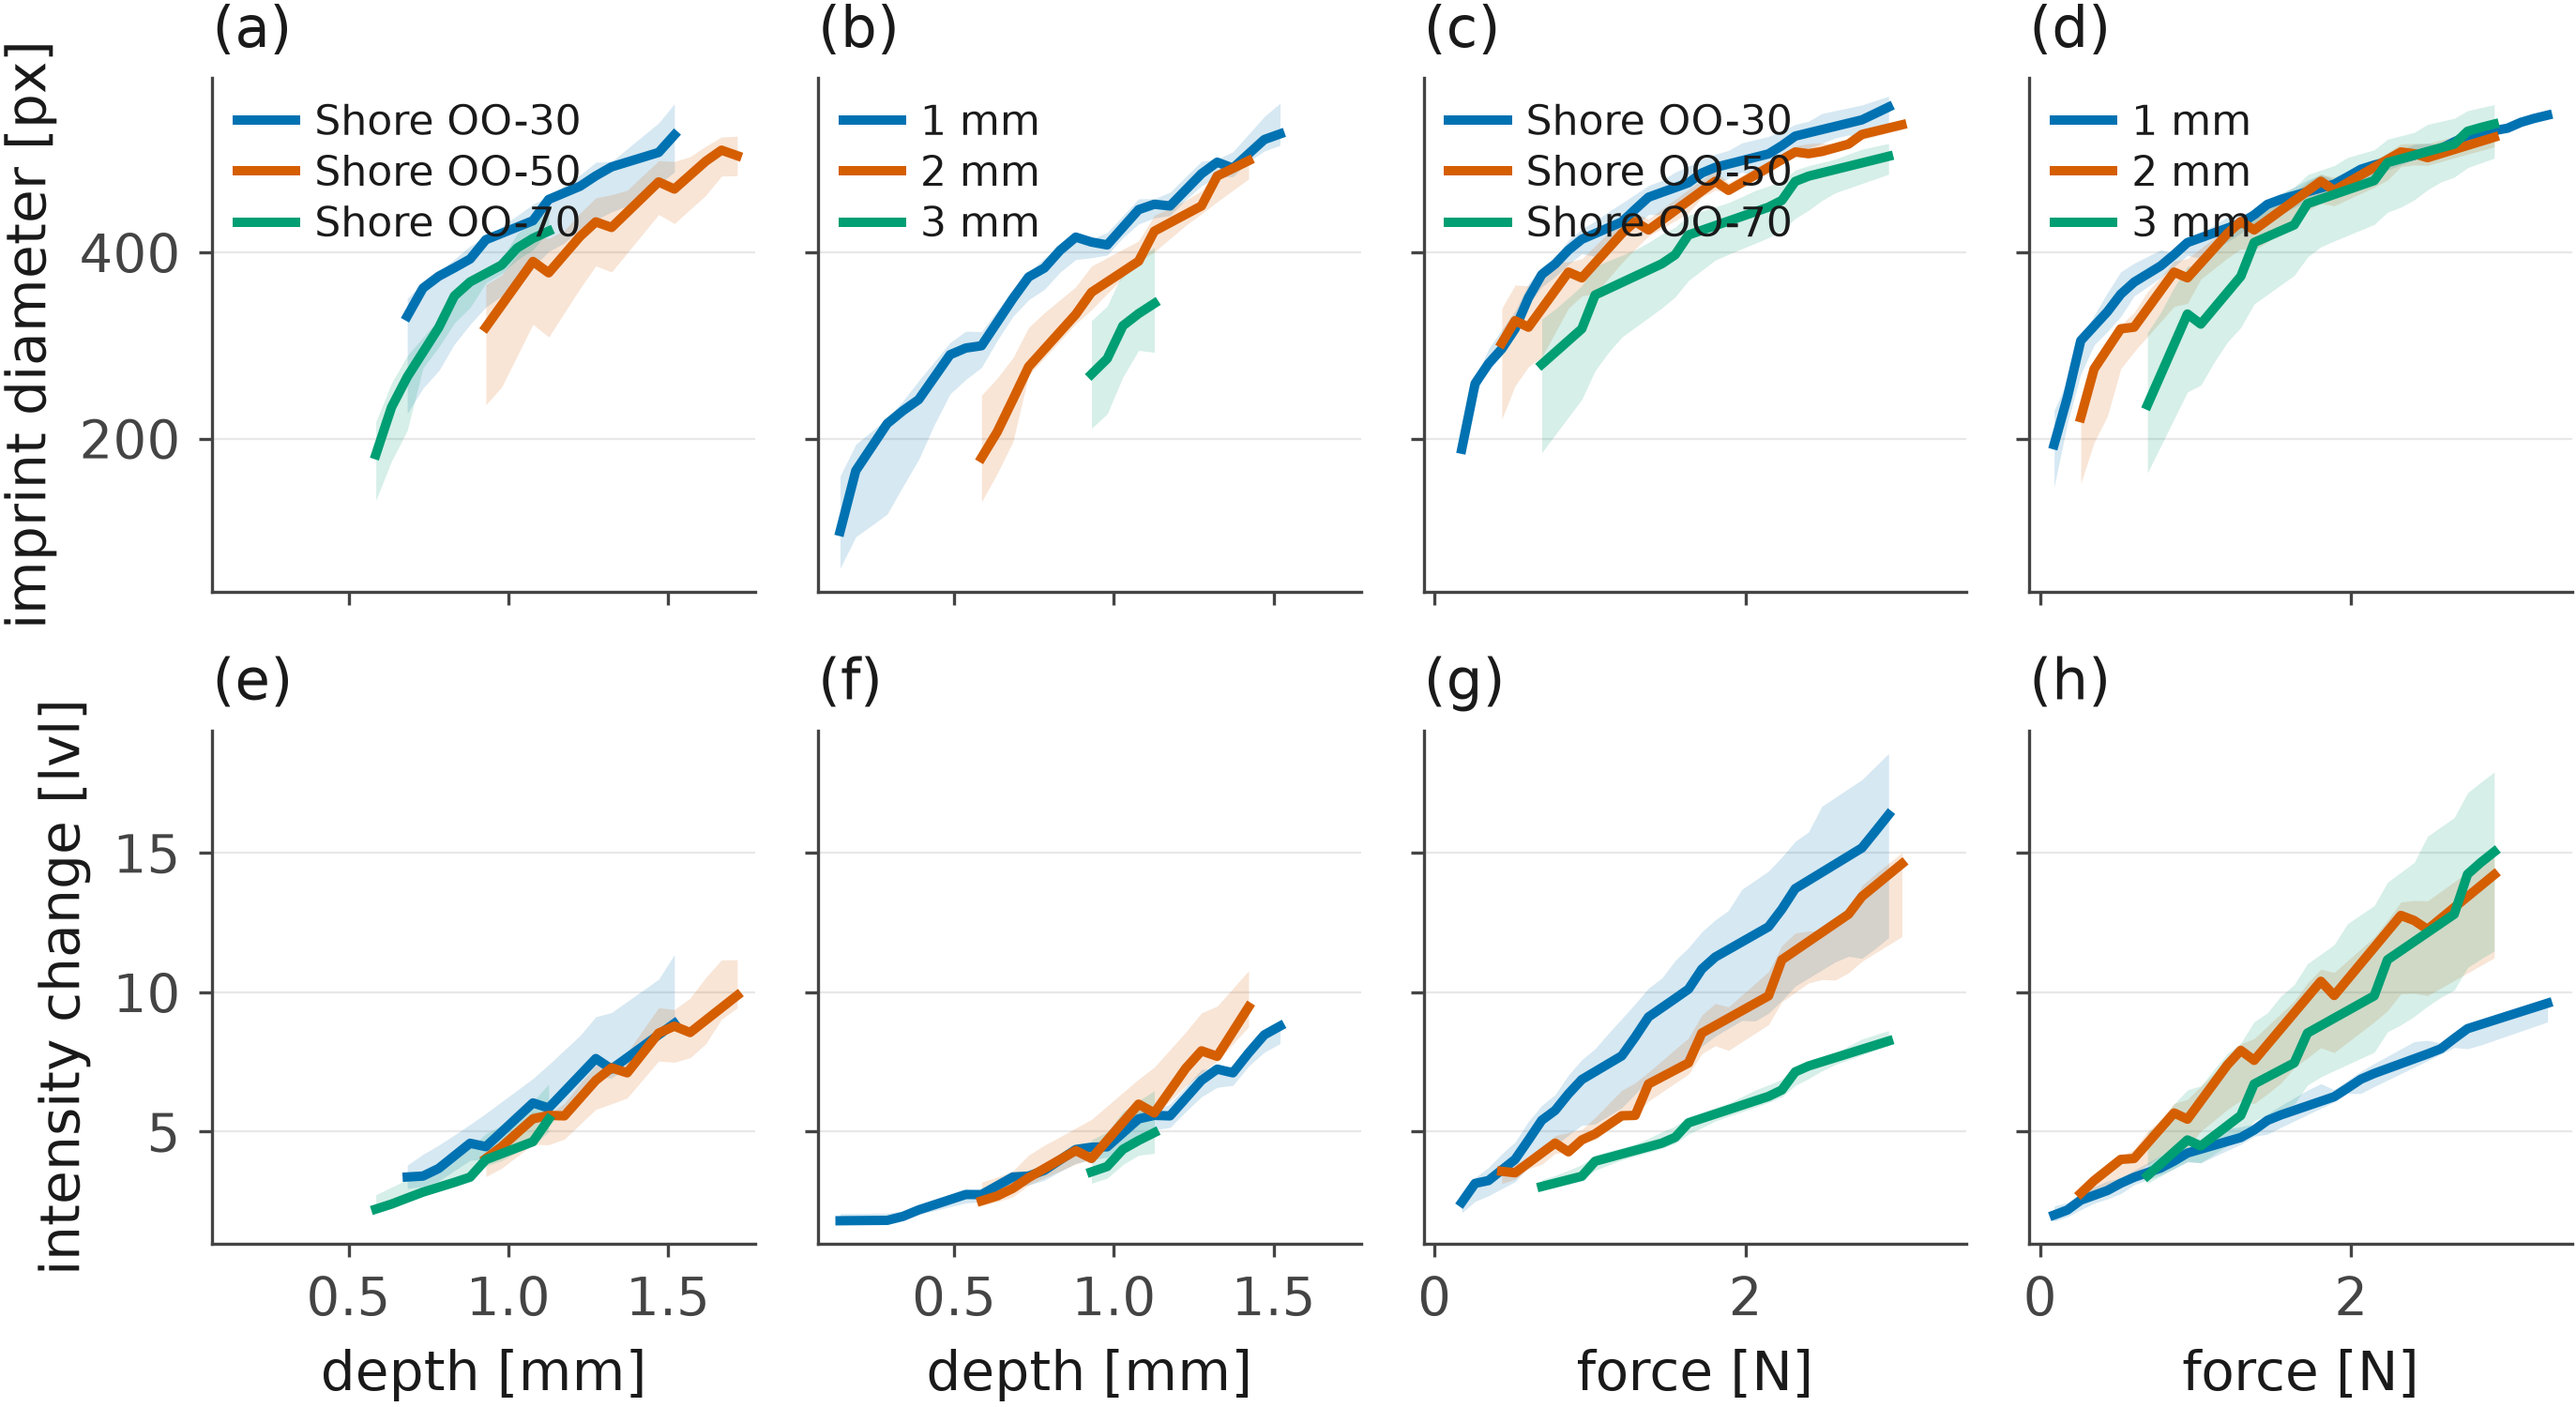
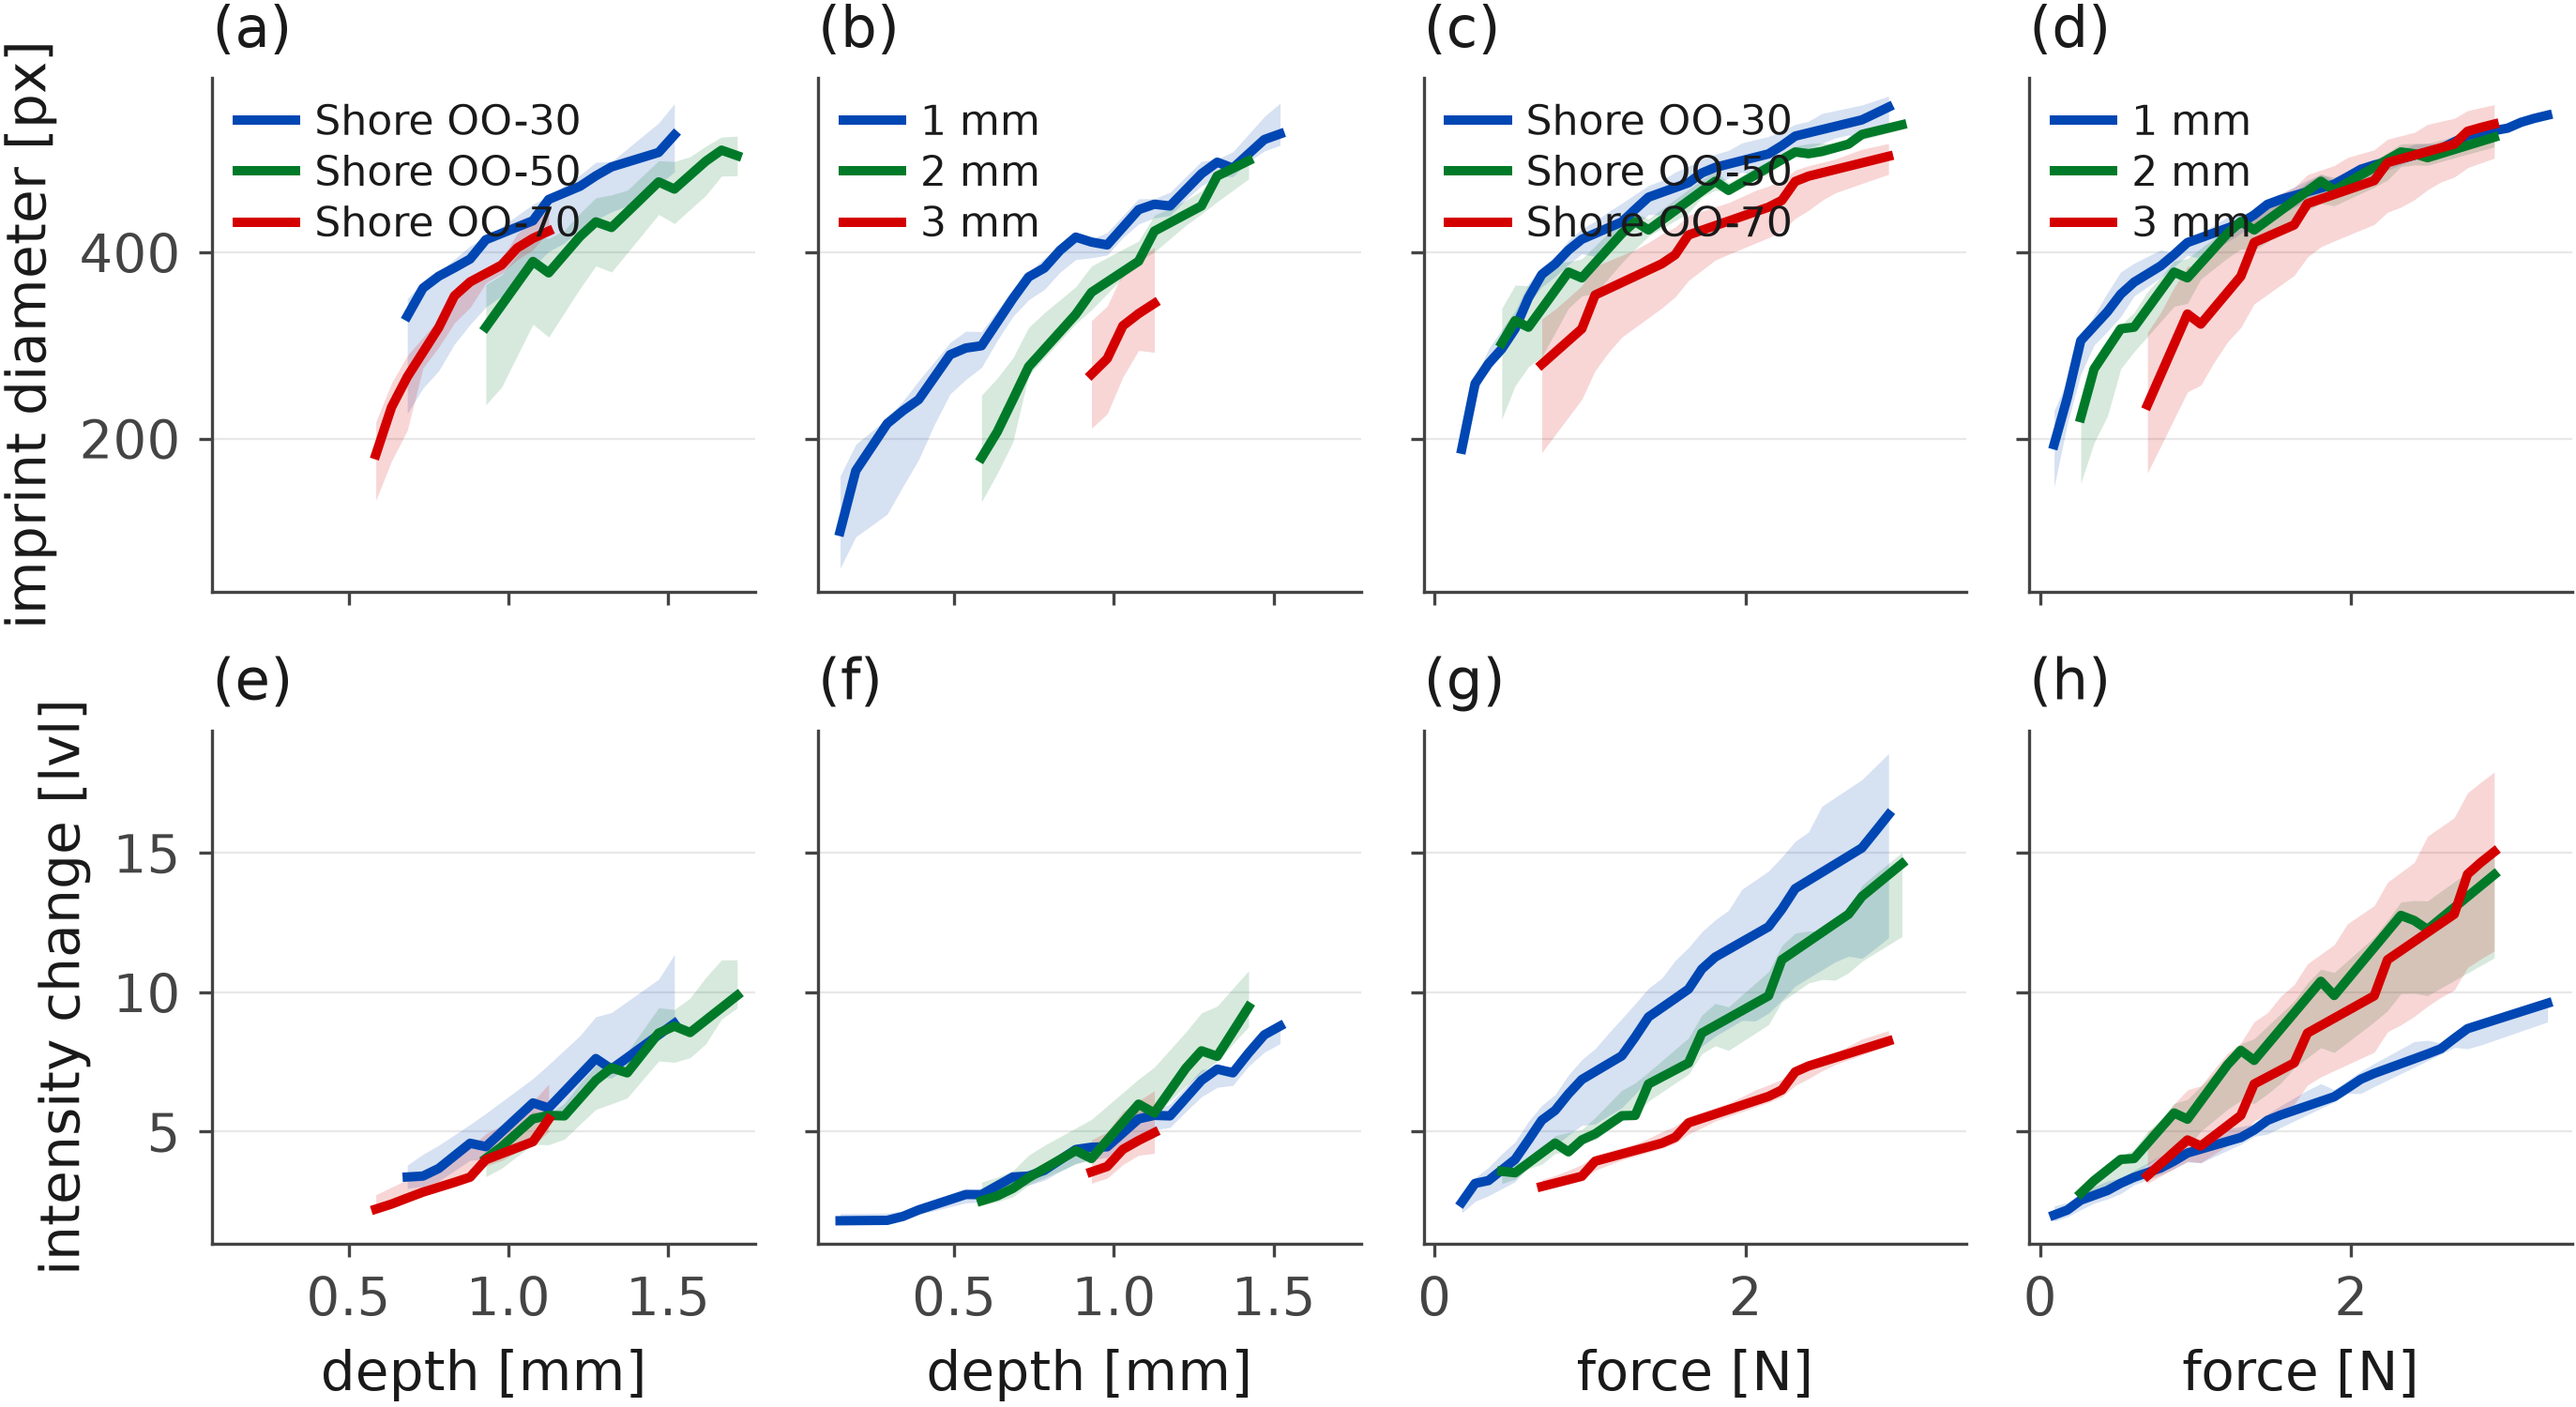
논문 그림 색을 투박한 파랑·초록·빨강·검정으로 (운전자 결정)
paper_style 이 색을 직접 정한다. result/ 의 그림은 palette.py 의 Okabe-Ito
셋을 그대로 쓰므로 두 곳이 갈린다 -- palette.py 를 고치면 저장소에 커밋된
result/ 의 PNG 가 전부 어긋나는데 그것들은 data/ 가 있어야 다시 그려진다.

순서가 있는 변수는 무를수록 파랑, 단단할수록 빨강으로 간다. 계열이 하나뿐인
칸은 검정 -- 원리마다 색을 주던 것을 접었다.

검증기로 재 두었다. 빨강과 초록이 색각 이상에서 ΔE 7.4 (deutan) 로 Okabe-Ito
셋의 11.0 보다 낮고, 검증기가 보조 표시를 요구하는 6~8 구간이다. 표식 모양도
쓰지 않으므로 지금은 그 보조 표시가 없다. 되살리는 길 둘(선 끝 직접 라벨,
선 모양)을 CLAUDE.md 와 계획서에 적었다 -- 흑백 인쇄 문제도 같이 푼다.

Claude-Session: https://claude.ai/code/session_016iQhAWxVDAfi9YqRbr7KDo

diff --git a/paper/fin_figures/paper_fig_separation.py b/paper/fin_figures/paper_fig_separation.py
@@ -63,7 +63,7 @@ import pandas as pd
 from scipy.stats import spearmanr
 
 import paper_style as PS
-from paper_style import HARD3, MARKER, DISPLAY, SHORE
+from paper_style import HARD3, DISPLAY, SHORE
 
 PS.use_paper_style()
 import matplotlib.pyplot as plt           # noqa: E402
@@ -89,9 +89,9 @@ def panel_gel(ax):
     for h in HARDNESS:
         g = nine[nine.hardness == h].sort_values("thickness_mm")
         ax.plot(g.thickness_mm + DODGE[h], g.finest_centre_mm, "-",
-                c=HARD3[h], lw=1.4, label=f"Shore OO-{SHORE['9DTact'][h]}",
+                c=HARD3[h], lw=1.8, label=f"Shore OO-{SHORE['9DTact'][h]}",
                 zorder=3)
-        ax.plot(g.thickness_mm + DODGE[h], g.finest_centre_mm, MARKER[h],
+        ax.plot(g.thickness_mm + DODGE[h], g.finest_centre_mm, "o",
                 c=HARD3[h], ms=5.6, mec="white", mew=0.7, ls="none", zorder=4)
 
     rho, p = spearmanr(nine.thickness_mm, nine.finest_centre_mm)
@@ -122,7 +122,7 @@ def panel_pixels(ax):
     assert (passed.dip > 3 * passed.dip_sd).all(), "잡음 관문이 물었다 — 그림에 넣어야 한다"
     assert (passed.verdict == "분해").all(), "Rayleigh 를 넘겼는데 분해가 아니다"
 
-    c = PS.PRINCIPLE["9DTact"]
+    c = PS.SERIES
     ax.axhline(RAYLEIGH, c=PS.MUTED, lw=0.7, ls=(0, (4, 2)), zorder=1)
     ax.plot(seen.density_px_per_mm2, seen.dip, "-", c=c, lw=1.4, zorder=3)
     ax.plot(seen.density_px_per_mm2, seen.dip, "o", c=c, ms=5.6, mec="white",

diff --git a/paper/figure_plan.md b/paper/figure_plan.md
@@ -75,10 +75,15 @@
   글자가 함께 커진다. 두 패널짜리 기본값은 `FULL_W_NARROW = 6.10 in`.
 - 글자는 본문 기준 9 pt 로 그린다(2026-09-15 에 7.5 → 9 로 올렸다). 7.5 로 그렸더니
   두 단에 앉혔을 때 작았다.
-- 색은 `palette.py` 의 Okabe-Ito 셋을 그대로 쓴다. 검증기 전 항목 통과
-  (인접 쌍 최악 ΔE 11.0 deutan · 보통 시야 25.8 · 바탕 대비 전부 3:1 이상).
-- **색만으로 군을 가르지 않는다** — 경도마다 표식 모양(`o` / `s` / `^`)을 함께 건다.
-  흑백 인쇄와 색각 이상 양쪽에서 살아남아야 한다.
+- **색은 논문 그림만의 것이다** (운전자 결정, 2026-09-15) — 투박한 파랑 · 초록 ·
+  빨강 · 검정 넷. `paper_style.py` 가 정하고, `result/` 의 Okabe-Ito 셋과 **갈린다**.
+  순서가 있는 변수는 무를수록 파랑 · 단단할수록 빨강.
+  > **색각 이상에서 빨강·초록이 가깝다** — 인접 쌍 최악 ΔE **7.4** (deutan).
+  > Okabe-Ito 셋은 11.0 이었다. 검증기가 "보조 표시가 있을 때만" 이라고 적는
+  > 6 ~ 8 구간인데, 표식 모양도 쓰지 않으므로(운전자 결정) 지금 보조 표시가 없다.
+  > 보통 시야 28.8, 바탕 대비 셋 다 3:1 이상은 통과한다.
+  > **되살리는 값싼 길 둘** — 선 끝 직접 라벨, 또는 선 모양(실선·파선·점선).
+  > 흑백 인쇄에서 세 선이 구분되지 않는 문제도 그 둘이 함께 푼다.
 - 글꼴은 Type 42 로 심는다. Type 3 은 IEEE PDF eXpress 가 되돌려 보낸다
   (`fig_ceiling.pdf` 확인: FontFile2 3 개, Type 3 0 개).
 - `save()` 가 **pdf · png · csv 셋을 함께** 낸다. csv 없이 그림을 저장하지 않는다.

diff --git a/CLAUDE.md b/CLAUDE.md
@@ -36,7 +36,15 @@
   앉히는 것이 작은 글자를 키우는 가장 싼 방법이다. 패널 비율이 뭉개지지 않는
   선까지만 줄인다. 두 패널짜리 기본값은 `paper_style.FULL_W_NARROW`.
 - 글자 크기는 **인쇄에서 읽히는 것**이 기준이다. `paper_style` 한 곳에서 건다.
-- 색만으로 군을 가르지 않는다 — 표식 모양을 함께 건다(흑백 인쇄·색각 이상).
+- **논문 그림의 색은 `paper_style.py` 가 정한다** (운전자 결정, 2026-09-15).
+  투박한 파랑 `#0047B3` · 초록 `#007A29` · 빨강 `#D40000` · 검정 `#000000` 넷뿐이고,
+  순서가 있는 변수는 무를수록 파랑 · 단단할수록 빨강으로 간다.
+  `result/` 의 그림은 `src/scripts/palette.py` 의 Okabe-Ito 셋을 그대로 쓴다 —
+  **두 곳이 갈린다.** 값을 옮겨 적지 말고 각자의 파일에서 가져올 것.
+  > 빨강과 초록이 색각 이상에서 가깝다(인접 쌍 최악 ΔE **7.4** deutan, Okabe-Ito
+  > 는 11.0). 검증기가 보조 표시를 요구하는 6 ~ 8 구간인데 표식 모양도 쓰지
+  > 않으므로(운전자 결정) 지금은 그 보조 표시가 없다. 되살리려면 선 끝 직접
+  > 라벨이나 선 모양(실선·파선·점선) 중 하나면 된다 — 흑백 인쇄에서도 그 둘이 답이다.
 - 글꼴은 Type 42 로 심는다. Type 3 은 IEEE PDF eXpress 가 되돌려 보낸다.
 - **csv 없이 그림을 저장하지 않는다.** `paper_style.save()` 가 pdf·png·csv 를 함께 낸다.
 - `paper/figures/` 는 그 전에 만든 것이 들어 있는 곳이라 섞지 않는다.
